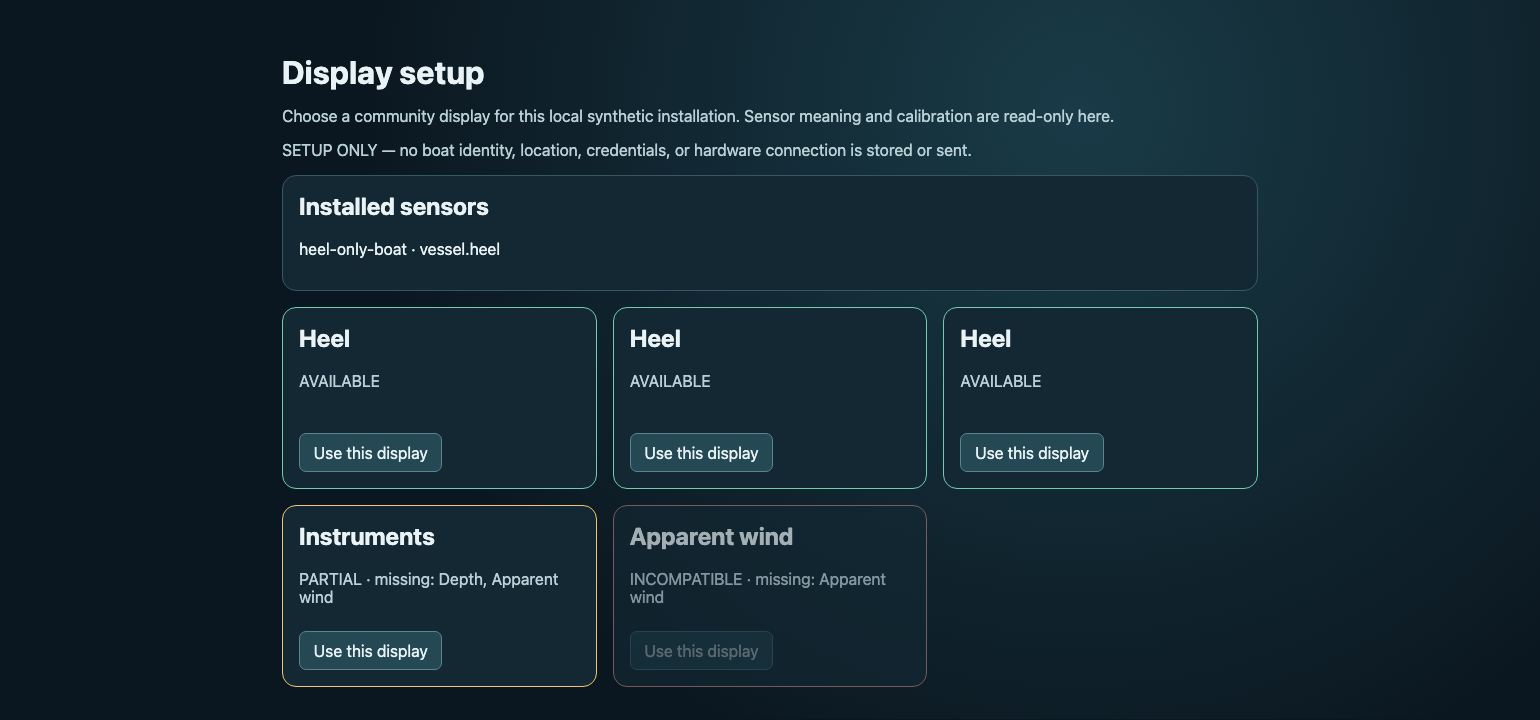
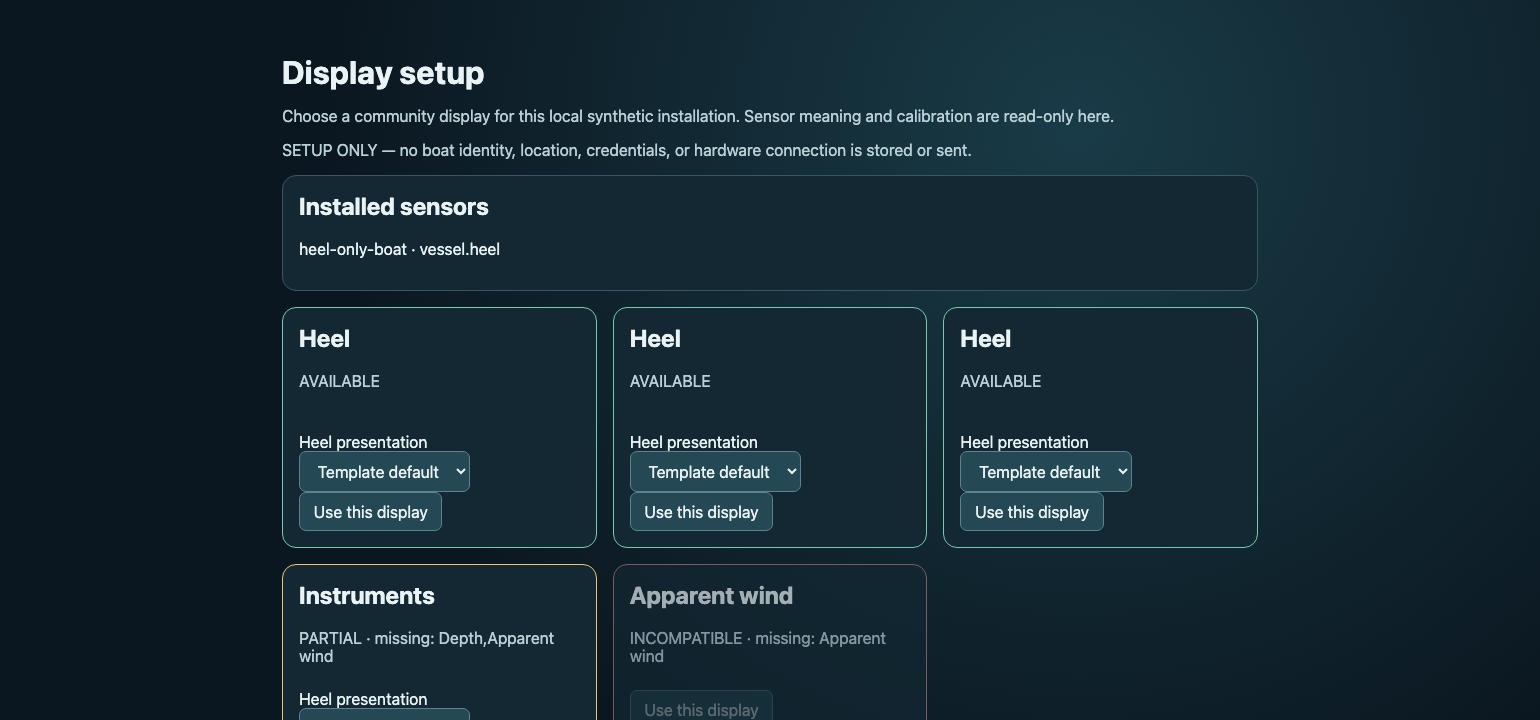
fix: isolate local boat setup profiles

diff --git a/SENSOR-GROUPS.md b/SENSOR-GROUPS.md
@@ -14,6 +14,8 @@ The fixture demonstrates the same `heel-degrees` community template with `demo-b
 
 Templates are the shareable part of this file. Providers and groups are deliberately local-installation-shaped. Public contributions must use non-identifying labels and synthetic/example values: never add a vessel name, registration, location, route, credentials, raw telemetry, or real calibration. A generic sensor mapping example must state observation, unit, frame and installation meaning; depth must state datum plus calibration/offset known or `unknown`. Templates must use semantic inputs and must not couple to a manufacturer, provider ID or boat identity.
 
+`examples/local-boat-profile.example.json` is the smallest local authoring artifact for a sailor’s own sensor setup. Copy it outside a public repository, replace the synthetic provider/channel bindings with local installation facts, and run `node scripts/validate-boat-profile.mjs /path/to/boat-profile.json`. It requires a local-only privacy marker, a named profile/group, a known/unknown calibration state for every channel, and a depth datum plus offset state. It is not uploaded, discovered, or loaded by a live adapter. The committed example is synthetic and shows an own-vessel inclinometer plus a transducer-referenced depth sensor.
+
 `evaluateTemplate` returns `available` only when every declared input is compatible, `partial` when at least one declared input is compatible but another required **or optional** input is missing, and `incompatible` when no declared input is compatible. This explicitly covers optional-only templates: a subset of their inputs is `partial`, while none is `incompatible`. Extra channels are ignored. This makes an optional missing dial visible without blocking a usable template. A non-existent compatible channel is `No compatible sensor source`; an installed channel with no fresh valid reading is `Installed sensor unavailable or stale`. Those states must not be conflated.
 
 The fixture’s heel-only sessions use exactly the same semantic heel binding while their template preferences render degrees, radians, or configurable `flat` / `little` / `lots to port/starboard` labels. Thresholds must be ordered `0 ≤ flat < little < lots ≤ 90`; beyond `lots`, the formatter falls back to an explicit signed-degree direction rather than silently applying a category outside its configured range. Wind supports knot/metres-per-second display conversion and depth supports metres/feet conversion, but a conversion never changes a depth datum: an unknown datum remains unknown, not keel or waterline depth. An other-vessel or fixed-site wind channel cannot bind an own-vessel apparent-wind input.

diff --git a/CONFIGURATION.md b/CONFIGURATION.md
@@ -13,3 +13,5 @@ RMC replay provides recorded SOG. MWV replay accepts only `R` apparent-wind sent
 `examples/synthetic-sensor-groups.json` is intentionally separate from `config.json` so it does not change the legacy simulator, replay, Signal K or two-window HUD path. Its groups are boat/context-local installations, not display layouts. Channels carry typed observation/unit/frame semantics plus installation metadata (for example a depth datum and offset known/unknown). Templates use required and optional semantic inputs, sessions choose one template plus one installation, and compatibility is `available`, `partial`, or `incompatible`. Share generic templates and synthetic definitions; do not publish boat identity, calibration, locations, credentials or secrets by default.
 
 Use `/?view=setup&sensorSession=heel-only-demo` to inspect the deterministic offline catalogue before launching a selected HUD. The setup route is the only selection surface; the HUD is presentation-only. Template preferences (such as heel degrees/radians/bands and wind/depth units) affect formatting only. They do not rewrite a provider’s declared unit, datum, calibration, observation provenance or reference frame.
+
+For a real local installation definition without an editor, begin with `examples/local-boat-profile.example.json` and validate a copied local file with `node scripts/validate-boat-profile.mjs /path/to/boat-profile.json`. `npm run validate:config` also validates the committed privacy-safe example. This artifact shares the provider/channel/group contract used by the synthetic catalogue; it has no runtime importer or hardware connection.

diff --git a/README.md b/README.md
@@ -53,6 +53,8 @@ The synthetic installation fixture is available at `/?view=hud&sensorSession=hee
 
 For the local setup flow, open `/?view=setup&sensorSession=heel-only-demo`. It lists compatible, partial and incompatible community displays for that installation and opens the selected presentation without editing its sensor meanings. The committed fixture shows two differently equipped synthetic boats using the same heel display, plus one boat using degree, radian and qualitative heel displays.
 
+To define a real boat’s sensor meanings locally without a settings editor, copy `examples/local-boat-profile.example.json` outside the repository and validate it with `node scripts/validate-boat-profile.mjs /path/to/boat-profile.json`. It is a local-only, schema-validated authoring artifact; Telltales does not import it into a live adapter or transmit it anywhere.
+
 More detail lives in the focused technical documents:
 
 - [Widget catalogue and contracts](WIDGETS.md)

diff --git a/CONTRIBUTING.md b/CONTRIBUTING.md
@@ -72,6 +72,8 @@ Community display templates use semantic observation/unit/frame inputs, never a 
 
 Use `examples/synthetic-sensor-groups.json` and `SENSOR-GROUPS.md` as the small validated starter convention for heel-only, wind-only and richer inventories. It is an offline contract/example, not an adapter contribution format or a claim that a real device is supported.
 
+`examples/local-boat-profile.example.json` is deliberately a local-only artifact. Copy it outside the repository for an actual boat, validate it with `node scripts/validate-boat-profile.mjs`, and do not submit the copied profile in a public PR.
+
 The current validation commands are:
 
 ```sh
